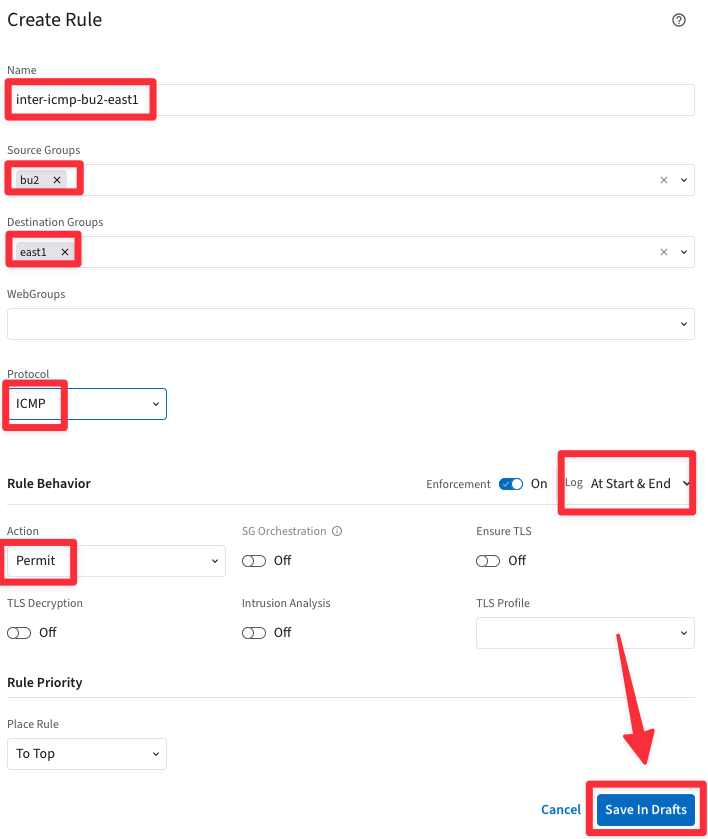
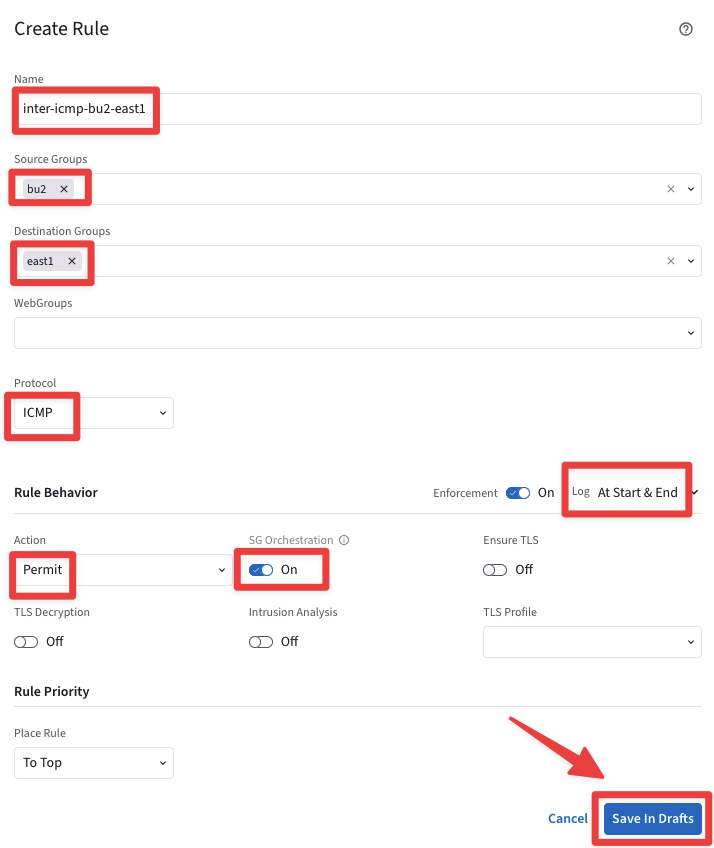
update for pro

diff --git a/ace_pro/docs/lab11 copy.md b/ace_pro/docs/lab11 copy.md
@@ -8,6 +8,10 @@ This lab will demonstrate how the `Distributed Cloud Firewall` works.
 
 The **Distributed Cloud Firewall** is a powerful feature of the `Aviatrix Cloud Firewall`, designed to enhance security across your **CNSF**. It offers a comprehensive suite of capabilities, including Distributed Firewalling, Threat Prevention, TLS Decryption, URL Filtering, Suricata Intrusion Detection and Prevention Systems (IDS/IPS), Advanced Network Address Translation (NAT) capabilities, and Micro-Segmentation.
 
+```{tip}
+By uniting Distributed Cloud Firewall Policies and Smart Groups, Aviatrix unlocks the ultimate power of **<span style='color:red'>Micro-Segmentation</span>**.
+```
+
 In this lab, you will have the opportunity to create additional logical containers known as `Smart Groups`. These Smart Groups are designed to categorize instances within a VPC/VNet/VCN that share similar characteristics. Once you have organized your instances into these groups, you will then enforce security policies among them through **Distributed Cloud Firewalling Rules**. This approach not only streamlines management but also enhances security by allowing for targeted rule enforcement based on the specific behaviors and attributes of the grouped instances.
 
 1) `intra-rule` = Rule applied within a Smart Group
@@ -1018,7 +1022,7 @@ align: center
 aws-us-east-1-transit
 ```
 
-Navigate to `"Settings"` tab and expand the `"“Border Gateway Protocol (BGP)”` section and insert the AS number **64512** on the empty field related to the `"“Local ASN”`, then click on **Save**.
+Navigate to `"Settings"` tab and expand the `"Border Gateway Protocol (BGP)”` section and insert the AS number **64512** on the empty field related to the `"Local ASN”`, then click on **Save**.
 
 ```{figure} images/lab10-mtt2.png
 ---
@@ -1177,6 +1181,7 @@ Ensure these parameters are entered in the pop-up window `"Create Rule"`:
 - **Protocol**: <span style='color:#479608'>ICMP</span>
 - **Log**: <span style='color:#479608'>At Start & End</span>
 - **Action**: <span style='color:#479608'>**Permit**</span>
+- **SG Orchestration**: <span style='color:#479608'>**On**</span>
 
 Then click on **Save In Drafts**.
 
